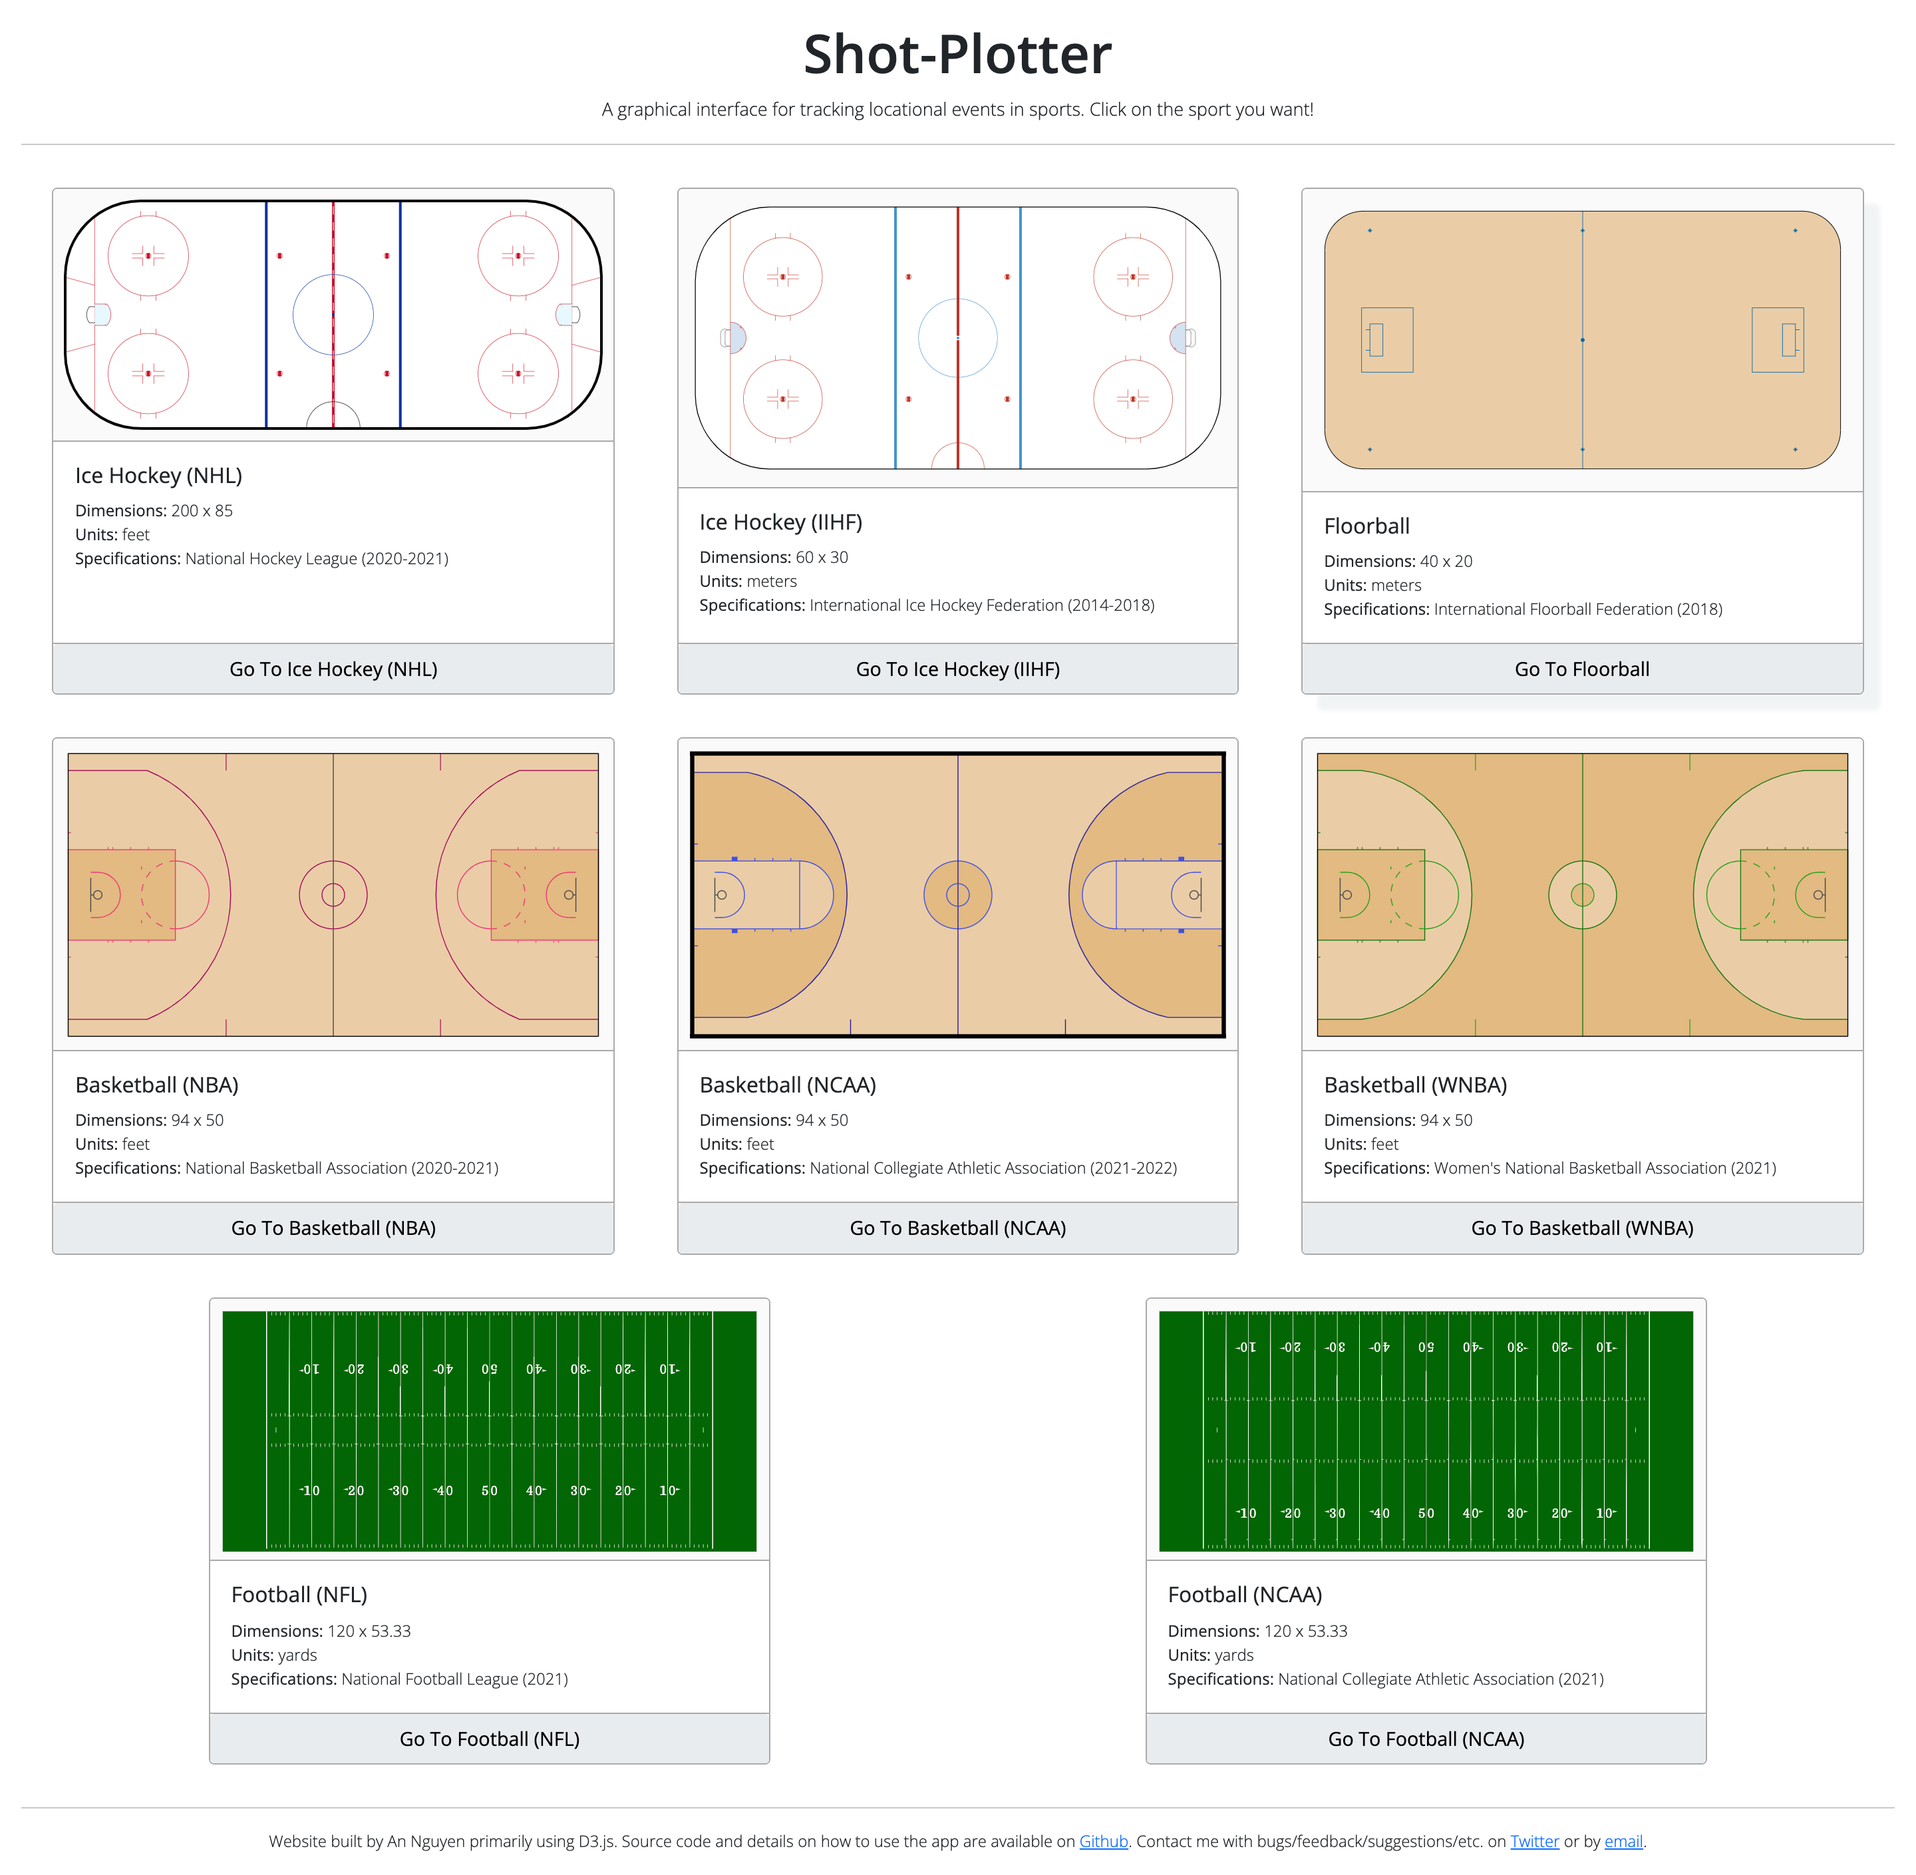
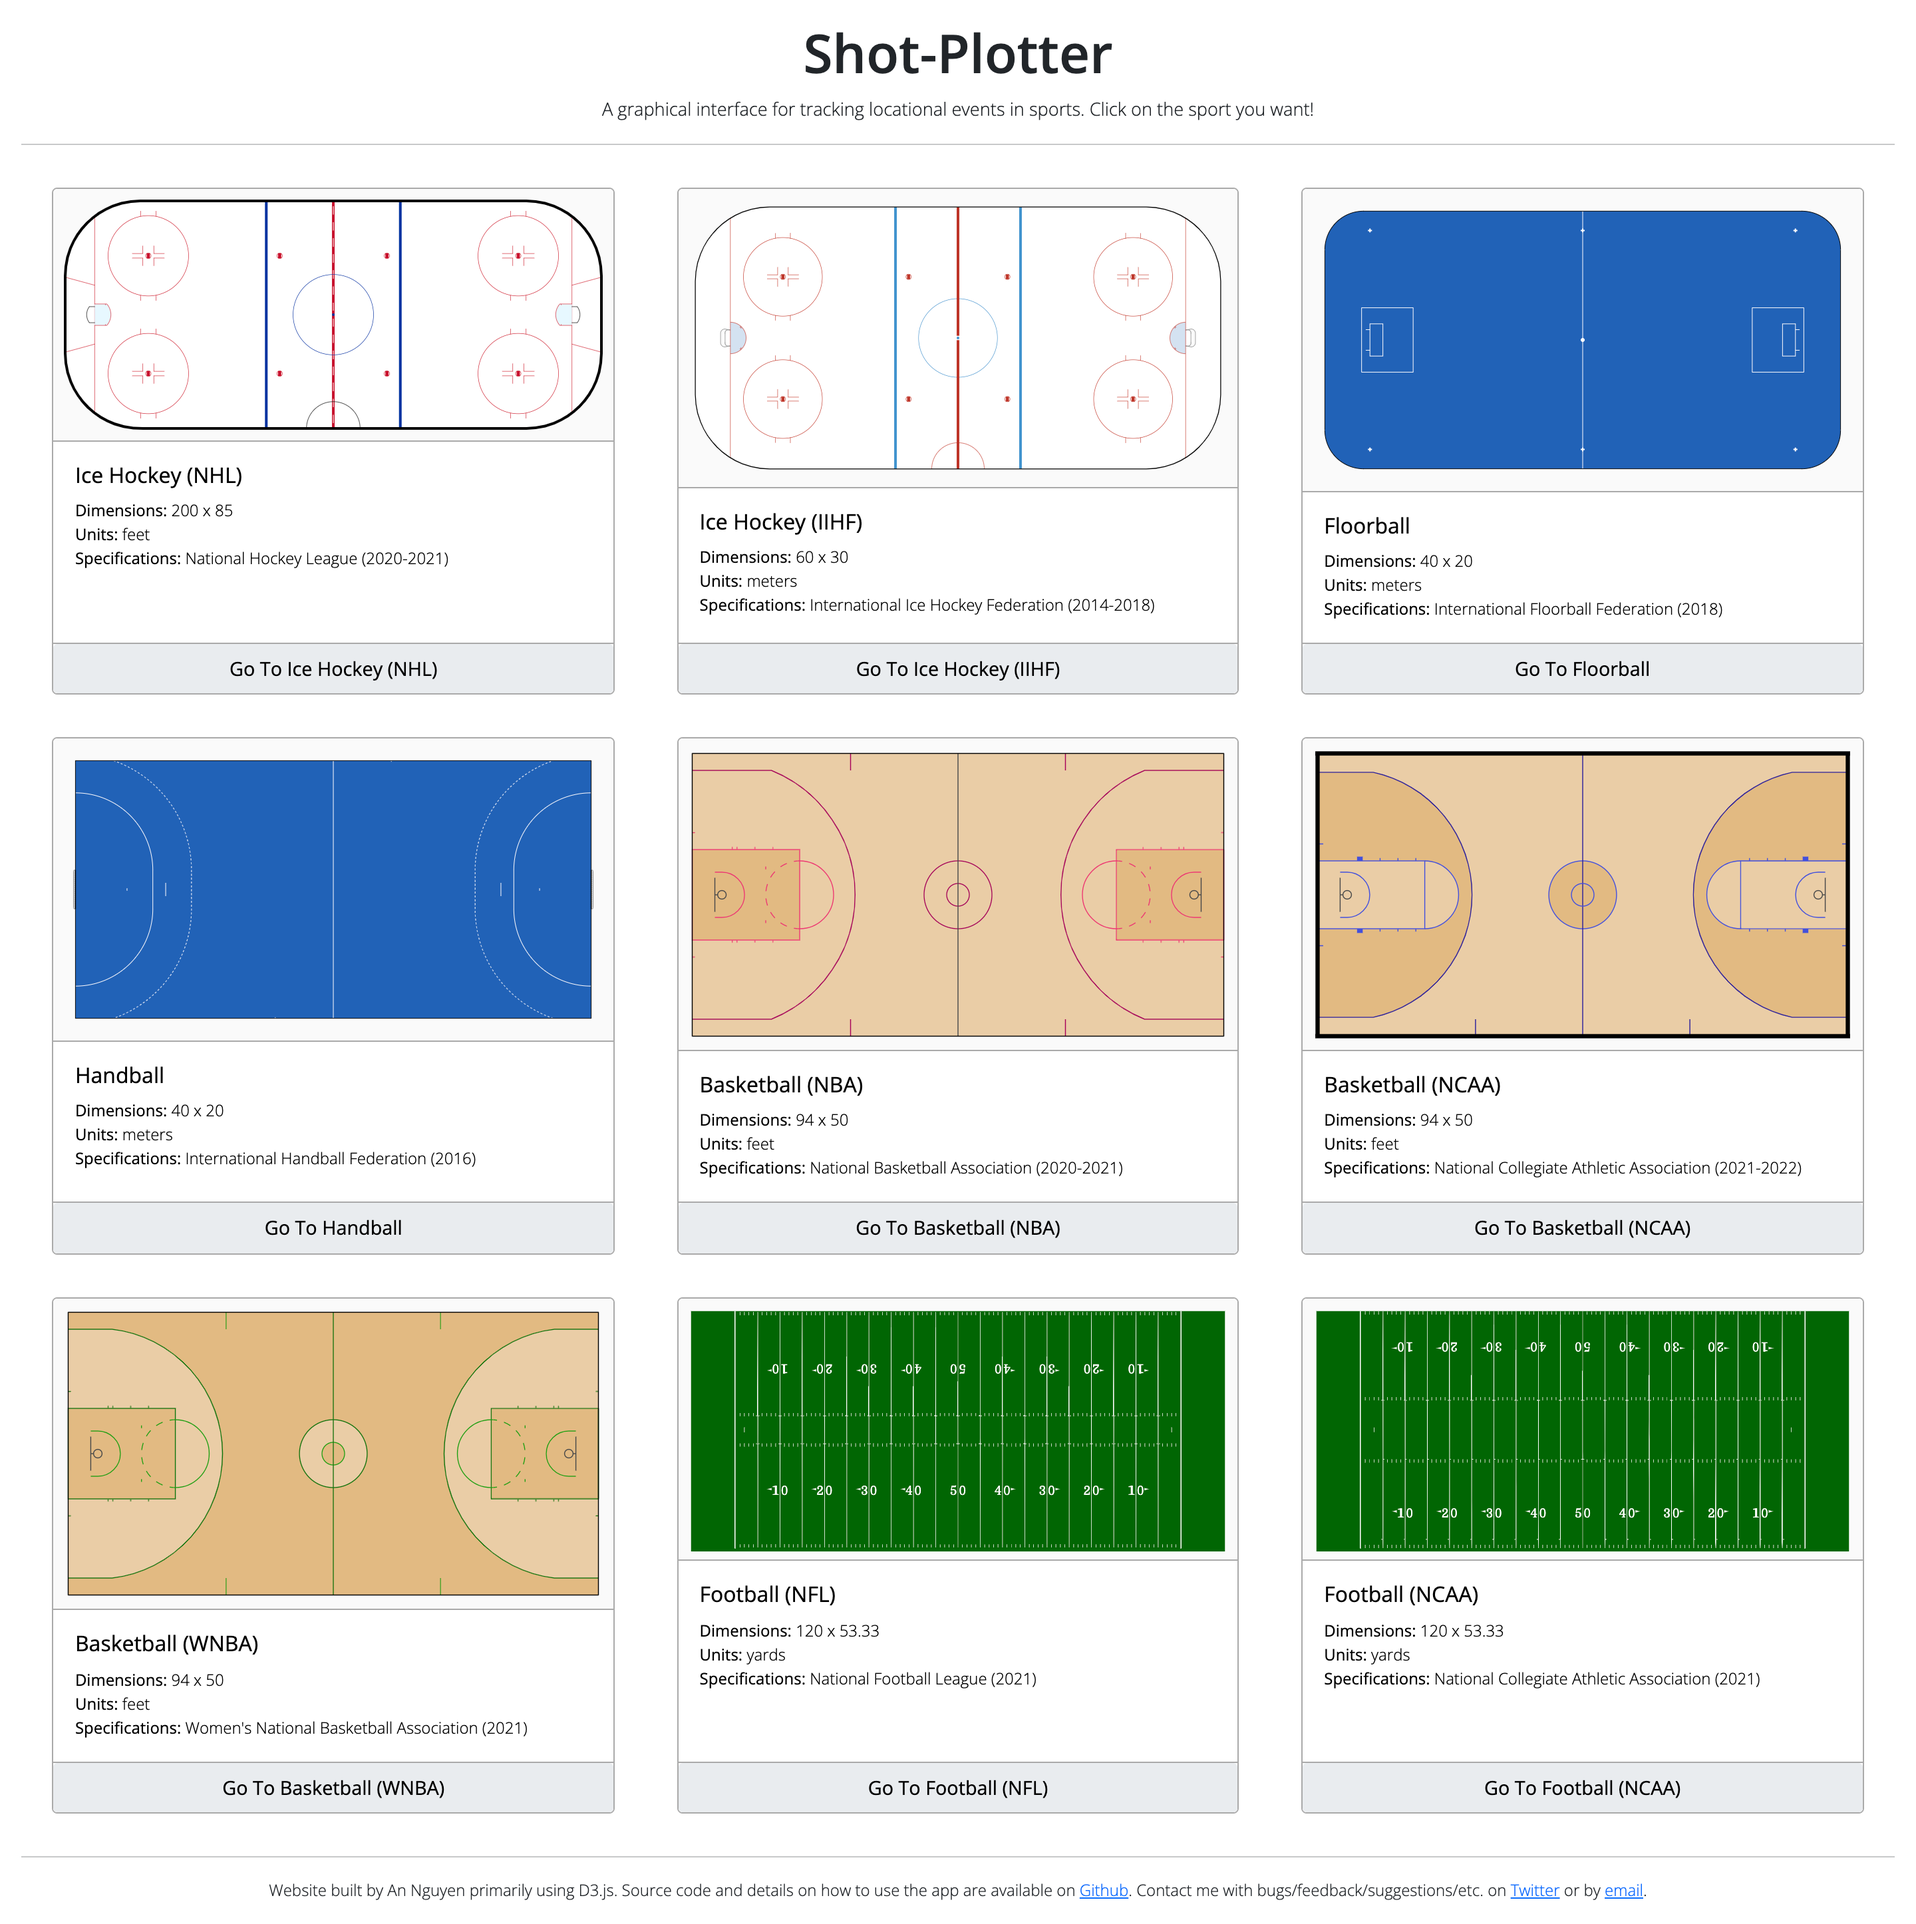
:memo: update README with handball
update README with handball information; and strip some unnecessary scripts and imports from the index page

diff --git a/html/index.html b/html/index.html
@@ -13,22 +13,14 @@
   <link href="https://fonts.googleapis.com/css?family=Open+Sans:400,300,600" rel="stylesheet" type="text/css" />
   <link href="https://fonts.googleapis.com/css?family=Domine:400,300,600" rel="stylesheet" type="text/css" />
 
-  <!-- D3.js -->
-  <script src="https://cdnjs.cloudflare.com/ajax/libs/d3/6.6.0/d3.min.js" integrity="sha512-XgjkLS0sSzUq88GniFcrLy6zjgVWkBoRFziaLm1Z+gVgkHuO3ieikhD/Q6eNKXAsp88yvBFS0n6ovVlabXftIg==" crossorigin="anonymous"></script>
-
   <!-- Bootstrap -->
   <link href="https://cdn.jsdelivr.net/npm/bootstrap@5.0.0-beta3/dist/css/bootstrap.min.css" rel="stylesheet" integrity="sha384-eOJMYsd53ii+scO/bJGFsiCZc+5NDVN2yr8+0RDqr0Ql0h+rP48ckxlpbzKgwra6" crossorigin="anonymous" />
-  <script src="https://cdn.jsdelivr.net/npm/bootstrap@5.0.0-beta3/dist/js/bootstrap.min.js" integrity="sha384-j0CNLUeiqtyaRmlzUHCPZ+Gy5fQu0dQ6eZ/xAww941Ai1SxSY+0EQqNXNE6DZiVc" crossorigin="anonymous"></script>
+  <!-- <script src="https://cdn.jsdelivr.net/npm/bootstrap@5.0.0-beta3/dist/js/bootstrap.min.js" integrity="sha384-j0CNLUeiqtyaRmlzUHCPZ+Gy5fQu0dQ6eZ/xAww941Ai1SxSY+0EQqNXNE6DZiVc" crossorigin="anonymous"></script> -->
 
-  <!-- Bootstrap Icons -->
-  <link rel="stylesheet" href="https://cdn.jsdelivr.net/npm/bootstrap-icons@1.4.0/font/bootstrap-icons.css" />
   <link rel="stylesheet" href="/index.css" />
 </head>
 
 <body>
-  <div class="alert alert-info" role="alert">
-    <b>12/03:</b> American football fields (NCAA, NFL) are now available! There are now options for special, calculated detail columns: Distance and Shot Value (basketball)!
-  </div>
   <div class="center header">
     <h1>Shot-Plotter</h1>
   </div>
@@ -2110,7 +2102,7 @@
   </div>
   <hr />
   <!-- bootstrap -->
-  <script src="https://cdn.jsdelivr.net/npm/bootstrap@5.0.0-beta3/dist/js/bootstrap.bundle.min.js" integrity="sha384-JEW9xMcG8R+pH31jmWH6WWP0WintQrMb4s7ZOdauHnUtxwoG2vI5DkLtS3qm9Ekf" crossorigin="anonymous"></script>
+  <!-- <script src="https://cdn.jsdelivr.net/npm/bootstrap@5.0.0-beta3/dist/js/bootstrap.bundle.min.js" integrity="sha384-JEW9xMcG8R+pH31jmWH6WWP0WintQrMb4s7ZOdauHnUtxwoG2vI5DkLtS3qm9Ekf" crossorigin="anonymous"></script> -->
 </body>
 <footer class="center">
   <span>

diff --git a/preprocessing/index-base.html b/preprocessing/index-base.html
@@ -13,22 +13,14 @@
   <link href="https://fonts.googleapis.com/css?family=Open+Sans:400,300,600" rel="stylesheet" type="text/css" />
   <link href="https://fonts.googleapis.com/css?family=Domine:400,300,600" rel="stylesheet" type="text/css" />
 
-  <!-- D3.js -->
-  <script src="https://cdnjs.cloudflare.com/ajax/libs/d3/6.6.0/d3.min.js" integrity="sha512-XgjkLS0sSzUq88GniFcrLy6zjgVWkBoRFziaLm1Z+gVgkHuO3ieikhD/Q6eNKXAsp88yvBFS0n6ovVlabXftIg==" crossorigin="anonymous"></script>
-
   <!-- Bootstrap -->
   <link href="https://cdn.jsdelivr.net/npm/bootstrap@5.0.0-beta3/dist/css/bootstrap.min.css" rel="stylesheet" integrity="sha384-eOJMYsd53ii+scO/bJGFsiCZc+5NDVN2yr8+0RDqr0Ql0h+rP48ckxlpbzKgwra6" crossorigin="anonymous" />
-  <script src="https://cdn.jsdelivr.net/npm/bootstrap@5.0.0-beta3/dist/js/bootstrap.min.js" integrity="sha384-j0CNLUeiqtyaRmlzUHCPZ+Gy5fQu0dQ6eZ/xAww941Ai1SxSY+0EQqNXNE6DZiVc" crossorigin="anonymous"></script>
 
-  <!-- Bootstrap Icons -->
-  <link rel="stylesheet" href="https://cdn.jsdelivr.net/npm/bootstrap-icons@1.4.0/font/bootstrap-icons.css" />
+  <!-- custom stylesheet -->
   <link rel="stylesheet" href="/index.css" />
 </head>
 
 <body>
-  <div class="alert alert-info" role="alert">
-    <b>12/03:</b> American football fields (NCAA, NFL) are now available! There are now options for special, calculated detail columns: Distance and Shot Value (basketball)!
-  </div>
   <div class="center header">
     <h1>Shot-Plotter</h1>
   </div>
@@ -43,8 +35,6 @@
     <!-- endinject -->
   </div>
   <hr />
-  <!-- bootstrap -->
-  <script src="https://cdn.jsdelivr.net/npm/bootstrap@5.0.0-beta3/dist/js/bootstrap.bundle.min.js" integrity="sha384-JEW9xMcG8R+pH31jmWH6WWP0WintQrMb4s7ZOdauHnUtxwoG2vI5DkLtS3qm9Ekf" crossorigin="anonymous"></script>
 </body>
 <footer class="center">
   <span>

diff --git a/README.md b/README.md
@@ -6,7 +6,7 @@
 
 A [web application](https://shot-plotter.netlify.app/) for plotting events on a sport's playing area with a single click, while keeping track of any other details. The application supports download and upload of .csv files to retrieve that plotted data.
 
-Currently eight types of sports/playing areas are supported: ice hockey (NHL, IIHF), floorball (IFF), basketball (NBA, NCAA, WNBA), and American football (NFL, NCAA).
+Currently 9 types of sports/playing areas are supported: ice hockey (NHL, IIHF), floorball (IFF), handball (IHF), basketball (NBA, NCAA, WNBA), and American football (NFL, NCAA).
 
 ![A screenshot of the main page of the web application allowing you to pick between sports.](./resources/sport-select-screenshot.png)
 
